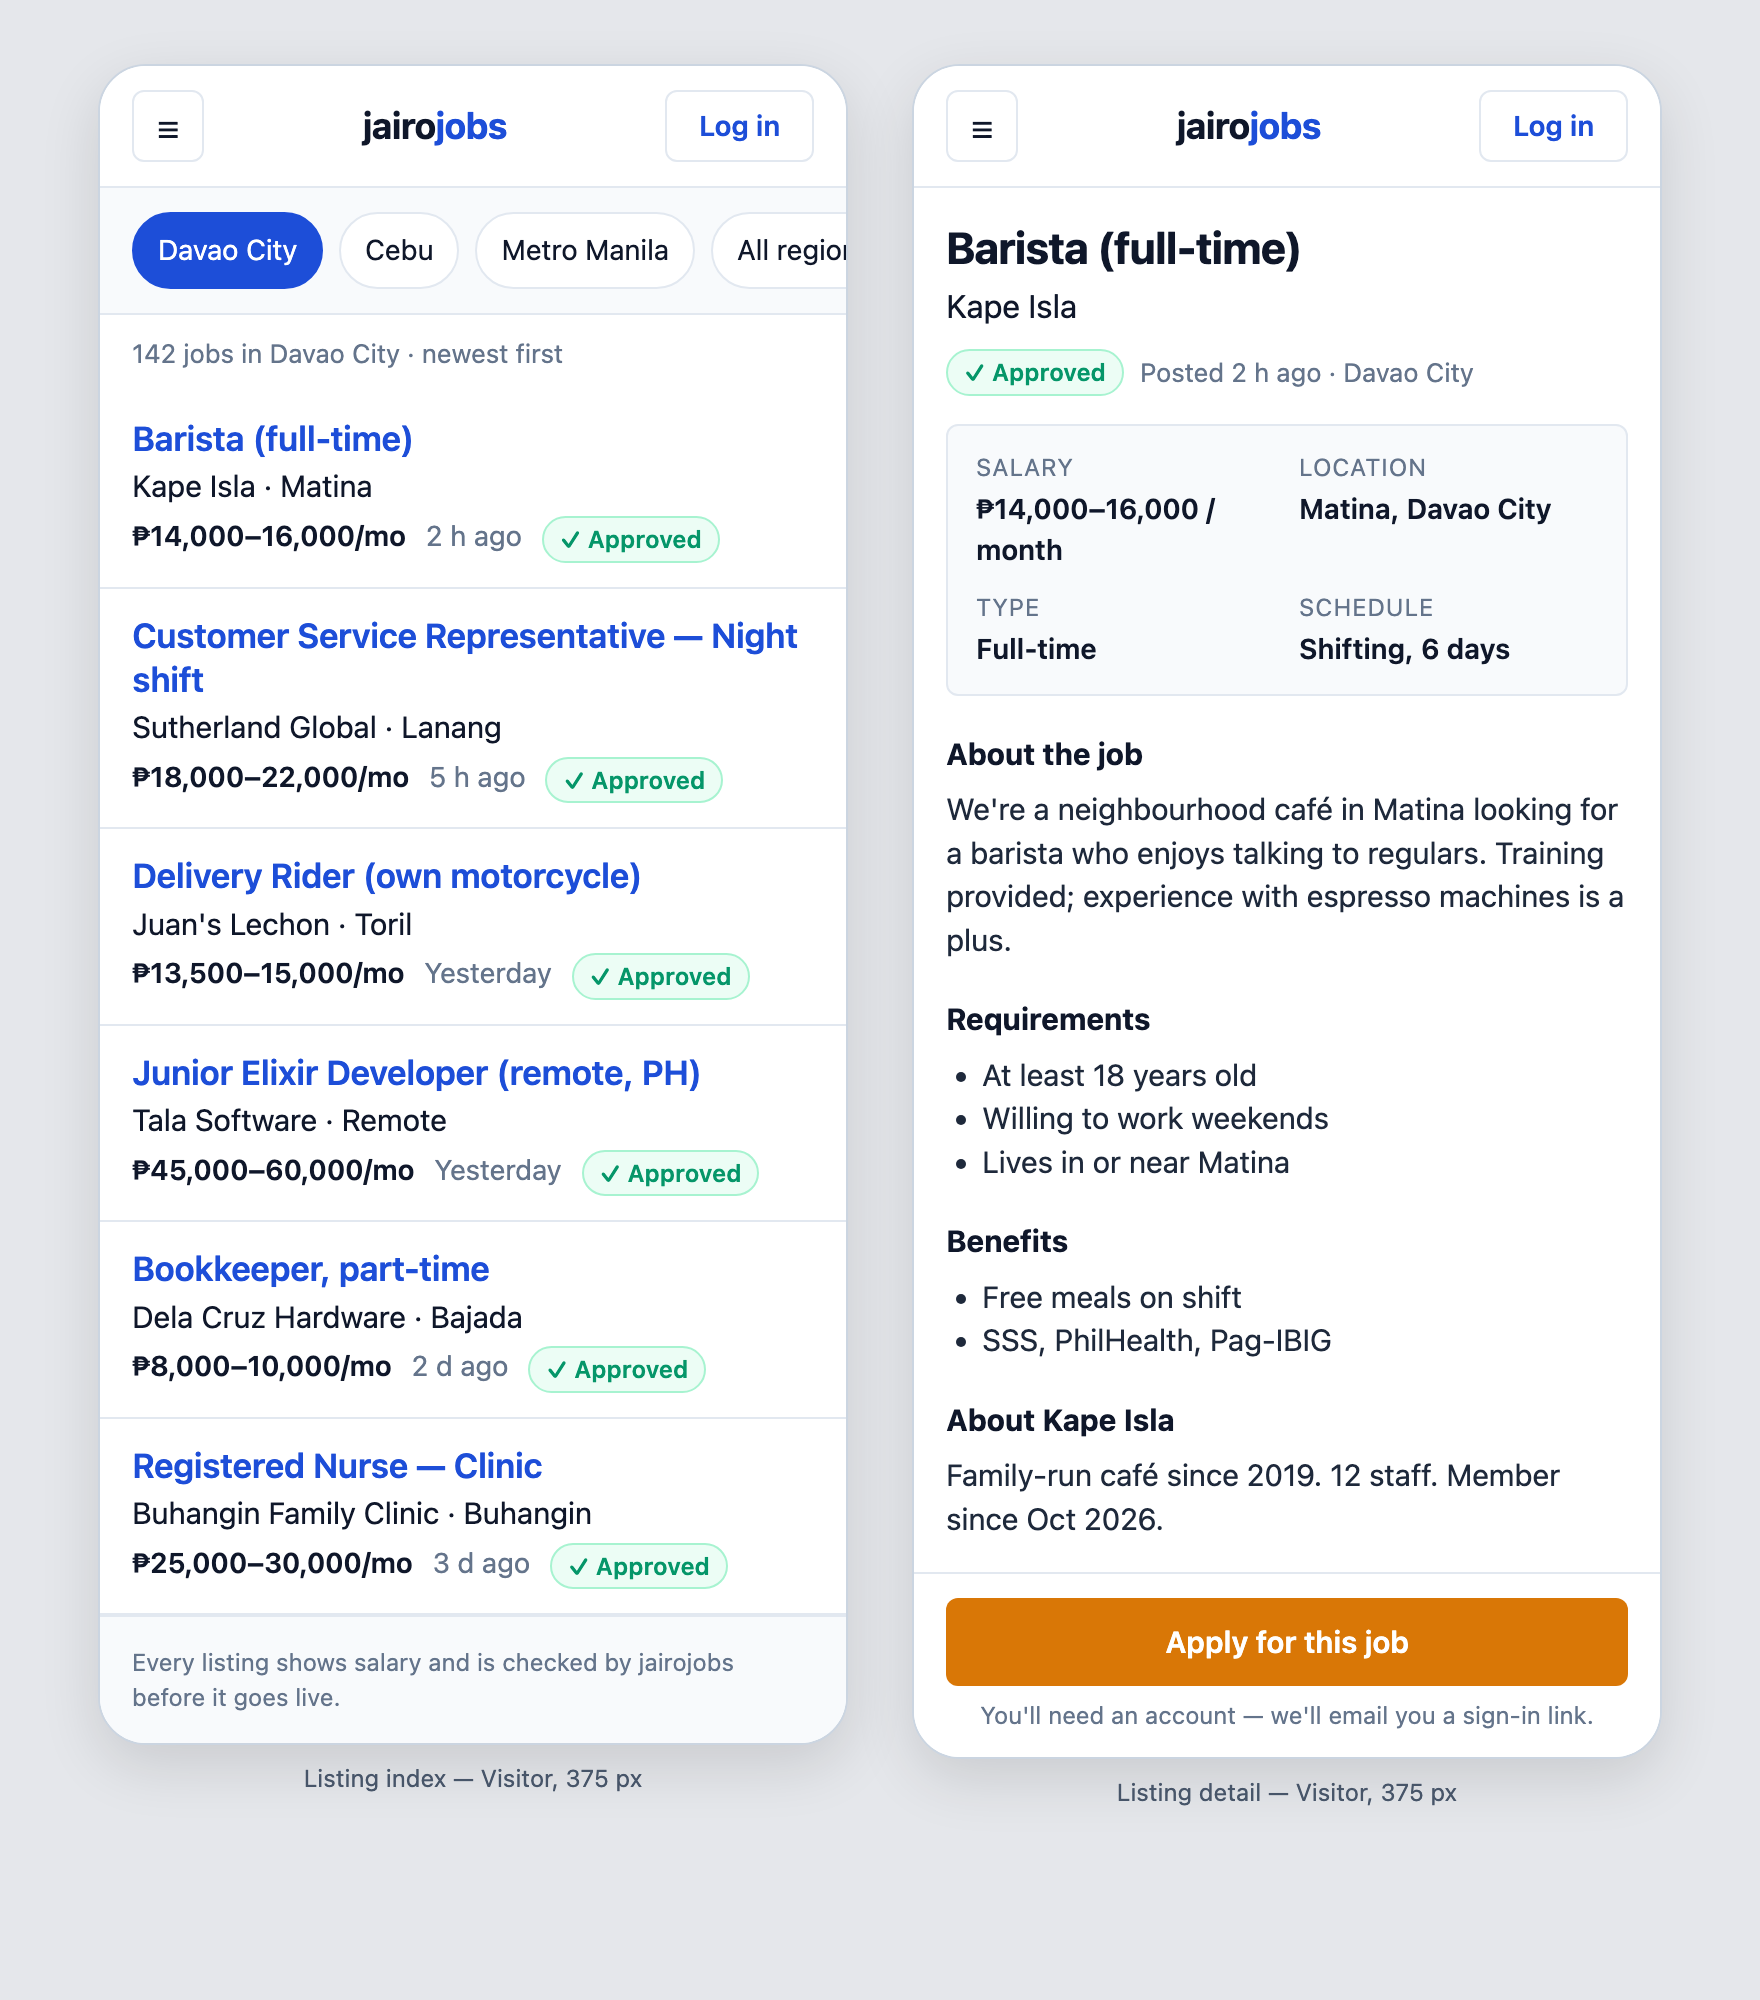
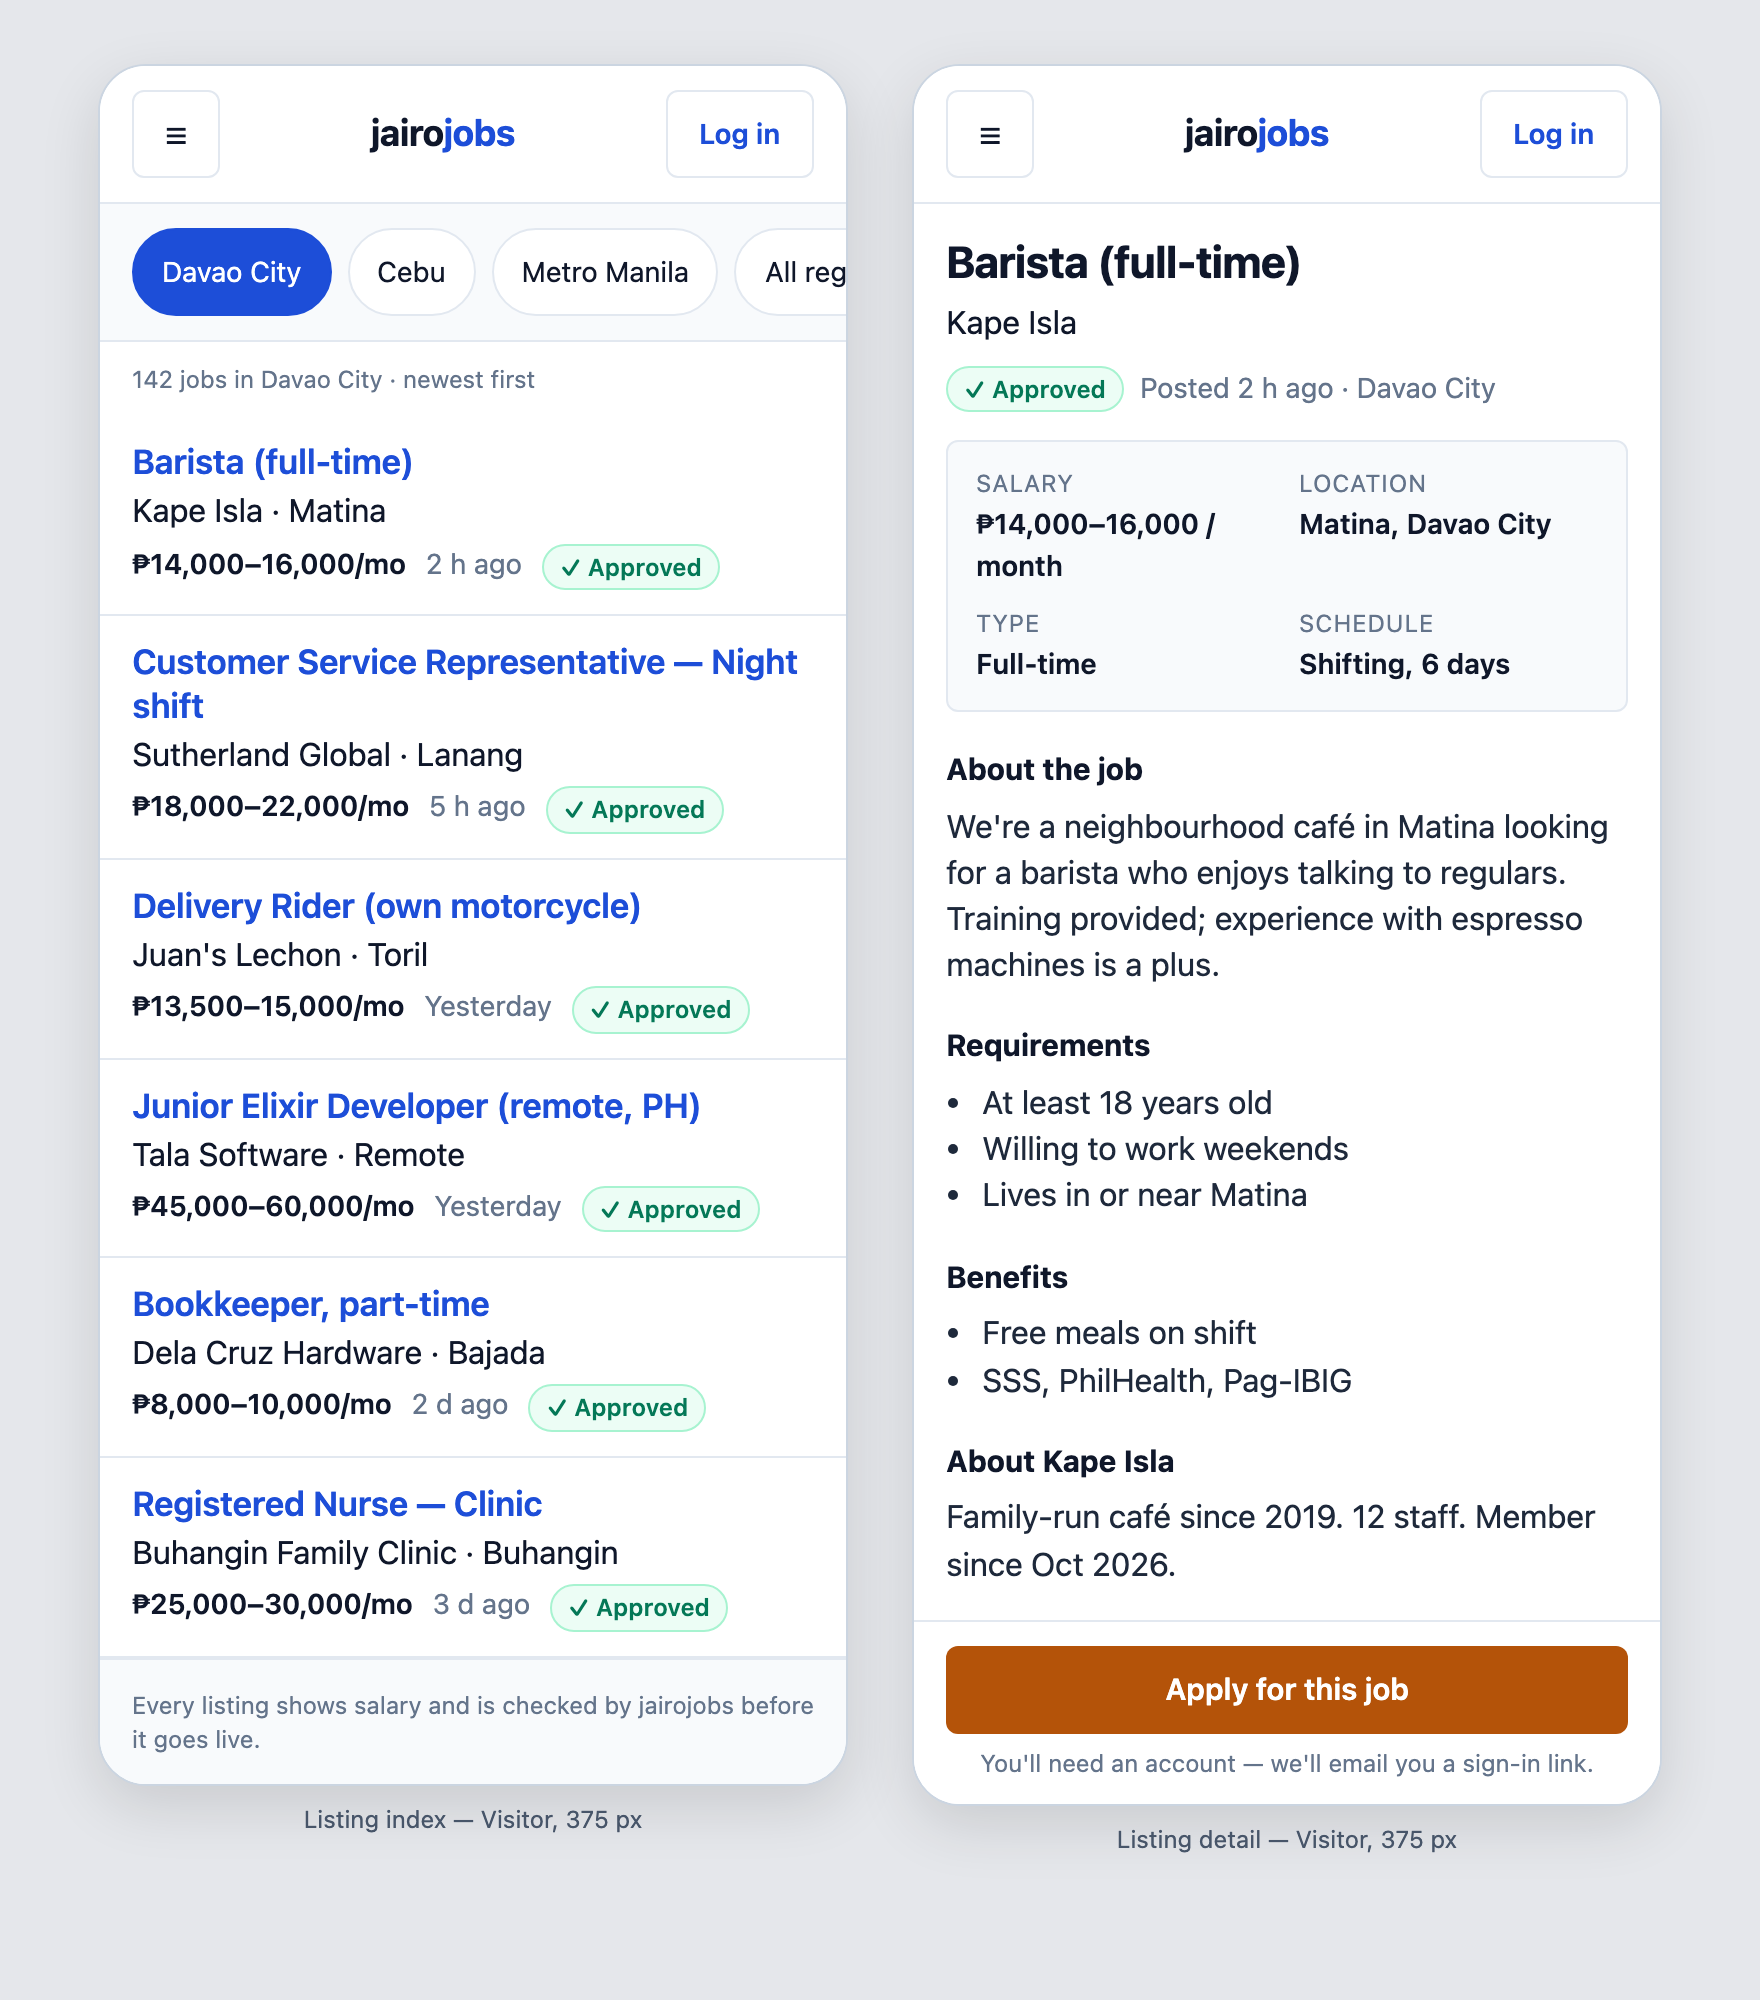
docs(design): resolve seven contradictions in the design guide (44 px for every interactive element, contrast, region, wording); mock redrawn

diff --git a/docs/design/mock-listing-375.html b/docs/design/mock-listing-375.html
@@ -4,7 +4,7 @@
 <style>
   :root{
     --bg:#ffffff;--bg2:#f8fafc;--border:#e2e8f0;--text:#0f172a;--muted:#64748b;
-    --primary:#1d4ed8;--accent:#d97706;--ok:#059669;--r:6px;
+    --primary:#1d4ed8;--accent:#b45309;--ok:#047857;--r:6px;
   }
   *{box-sizing:border-box;margin:0;padding:0}
   body{font-family:ui-sans-serif,system-ui,-apple-system,"Segoe UI",Roboto,"Helvetica Neue",Arial,sans-serif;color:var(--text);background:#e5e7eb;font-size:16px;line-height:1.45}
@@ -15,17 +15,17 @@
   .brand{font-weight:700;font-size:18px;color:var(--text);letter-spacing:-.01em}
   .brand span{color:var(--primary)}
   .btn{display:inline-flex;align-items:center;justify-content:center;min-height:44px;padding:0 16px;border-radius:var(--r);font-weight:600;font-size:15px;text-decoration:none;border:1px solid transparent}
-  .btn-ghost{color:var(--primary);border-color:var(--border);background:var(--bg);min-height:36px;font-size:14px}
+  .btn-ghost{color:var(--primary);border-color:var(--border);background:var(--bg);font-size:14px}
   .btn-accent{background:var(--accent);color:#fff;width:100%}
   .btn-primary{background:var(--primary);color:#fff}
-  .burger{width:36px;height:36px;display:flex;align-items:center;justify-content:center;border:1px solid var(--border);border-radius:var(--r);color:var(--text)}
+  .burger{width:44px;height:44px;display:flex;align-items:center;justify-content:center;border:1px solid var(--border);border-radius:var(--r);color:var(--text)}
   .filters{display:flex;gap:8px;padding:12px 16px;border-bottom:1px solid var(--border);background:var(--bg2);overflow-x:auto}
-  .chip{white-space:nowrap;font-size:14px;padding:8px 12px;border:1px solid var(--border);border-radius:999px;background:#fff;color:var(--text)}
+  .chip{display:inline-flex;align-items:center;min-height:44px;white-space:nowrap;font-size:14px;padding:0 14px;border:1px solid var(--border);border-radius:999px;background:#fff;color:var(--text)}
   .chip.on{background:var(--primary);color:#fff;border-color:var(--primary)}
-  .count{padding:10px 16px;font-size:13px;color:var(--muted)}
+  .count{padding:10px 16px;font-size:12px;color:var(--muted)}
   .row{display:block;padding:12px 16px;border-bottom:1px solid var(--border);text-decoration:none;color:inherit}
   .row h3{font-size:17px;font-weight:600;line-height:1.3;color:var(--primary)}
-  .row .co{font-size:15px;margin-top:2px}
+  .row .co{font-size:16px;margin-top:2px}
   .row .meta{font-size:14px;color:var(--muted);margin-top:4px;display:flex;gap:10px;flex-wrap:wrap}
   .sal{color:var(--text);font-weight:600}
   .badge{display:inline-flex;align-items:center;gap:4px;font-size:12px;font-weight:600;color:var(--ok);background:#ecfdf5;border:1px solid #a7f3d0;border-radius:999px;padding:2px 8px}
@@ -38,11 +38,11 @@
   .facts dt{color:var(--muted);font-size:12px;text-transform:uppercase;letter-spacing:.04em}
   .facts dd{font-weight:600;margin-top:2px}
   .detail h2{font-size:15px;font-weight:700;margin:18px 0 6px;color:var(--text)}
-  .detail p,.detail li{font-size:15px;color:#1e293b}
+  .detail p,.detail li{font-size:16px;color:#1e293b}
   .detail ul{padding-left:18px}
   .cta{position:sticky;bottom:0;background:#fff;border-top:1px solid var(--border);padding:12px 16px}
   .cta small{display:block;text-align:center;font-size:12px;color:var(--muted);margin-top:6px}
-  .trust{display:flex;gap:8px;align-items:center;margin-top:10px;font-size:13px;color:var(--muted)}
+  .trust{display:flex;gap:8px;align-items:center;margin-top:10px;font-size:14px;color:var(--muted)}
   footer{padding:14px 16px;font-size:12px;color:var(--muted);border-top:1px solid var(--border);background:var(--bg2)}
 </style></head><body>
 <div class="phones">

diff --git a/docs/design.md b/docs/design.md
@@ -1,7 +1,7 @@
 # Design Guide
 
 **Status:** Accepted
-**Last updated:** 2026-11-12 (status labels pattern added from spec 003)
+**Last updated:** 2026-11-16 (seven internal contradictions resolved with the owner; see Changelog)
 **Brief:** "A clean, trustworthy, modern craigslist.org."
 
 The single reference for how jairojobs looks and feels. Agents and humans build every screen
@@ -23,9 +23,13 @@ Reference render (375 px, listing index + detail):
 3. **Nothing hidden.** Salary, region, posted date, employer name, and moderation status are
    always visible. No dark patterns, no fake urgency, no "salary negotiable."
 4. **One accent colour, used once per screen** — for the primary action only (Apply, Post a
-   job, Approve). Everything else is neutral or the primary blue.
+   job, Approve). Everything else is neutral or the primary blue, except colours that carry
+   meaning: the status pills and messages (green, amber, red) and destructive buttons (red).
+   Those are states and warnings, not competing calls to action.
 5. **Craigslist density, thumb-friendly.** Compact rows (≈ 6 listings per phone screen) but
-   every interactive element is at least 44 px tall.
+   every interactive element is at least 44 px tall: buttons, fields, rows and standalone
+   links alike. The one exception is a link inside a sentence, which stays the height of
+   its text.
 6. **Plain language.** Microcopy says what will happen ("We'll email you a sign-in link"),
    never jargon ("Authenticate").
 7. **Mobile first, desktop inherits.** Design and test at 375 px; wider screens get more
@@ -37,24 +41,26 @@ Reference render (375 px, listing index + detail):
 |---|---|---|---|
 | Page background | `#ffffff` | `bg-base-100` | pages |
 | Section background | `#f8fafc` | `bg-base-200` / slate-50 | filters bar, fact boxes, footers |
-| Border | `#e2e8f0` | `border-base-300` / slate-200 | row dividers, inputs, cards |
+| Border | `#e2e8f0` | `border-base-300` / slate-200 | row dividers, inputs, boxes (facts box, status box) |
 | Text | `#0f172a` | `text-base-content` / slate-900 | body |
 | Muted text | `#64748b` | slate-500 | meta, hints, timestamps |
 | **Primary** | `#1d4ed8` | `text-primary` / blue-700 | listing titles, links, selected chips, secondary buttons |
-| **Accent (CTA)** | `#d97706` | `btn-accent` / amber-600 | the one primary action per screen |
-| Success | `#059669` | emerald-600 | "✓ Approved" badge, success flash |
-| Warning | `#d97706` | amber-600 | pending states |
+| **Accent (CTA)** | `#b45309` | `btn-accent` / amber-700 | the one primary action per screen |
+| Success | `#047857` | emerald-700 | "✓ Approved" badge, "Live" pill |
+| Warning | `#b45309` | amber-700 | pending states |
 | Error | `#dc2626` | red-600 | validation, destructive |
+| Info | `#2563eb` | blue-600 | confirmation messages (flash) |
 | Font | system stack | default `font-sans` | everything; no web fonts |
 | Base size | 16 px | `text-base` | body |
 | Listing title | 17 px / 600 | `text-[17px] font-semibold` | index rows |
 | Page title | 22 px / 700 | `text-[22px] font-bold` | detail pages |
+| Section heading | 15 px / 700 | `text-[15px] font-bold` | headings inside a listing |
 | Meta | 14 px | `text-sm` | salary, date, region |
-| Fine print | 12–13 px | `text-xs` | hints, footers |
+| Fine print | 12 px | `text-xs` | hints, footers |
 | Radius | 6 px | `rounded-md` | buttons, inputs, boxes |
 | Pill radius | 999 px | `rounded-full` | chips, badges |
 | Row padding | 12 px × 16 px | `py-3 px-4` | list rows |
-| Tap target | ≥ 44 px | `min-h-11` | buttons, rows, links in nav |
+| Tap target | ≥ 44 px | `min-h-11`; fields and buttons get it from the theme (§3) | every interactive element: buttons, fields, rows, standalone links. Not a link inside a sentence |
 | Content width | 720 px | `max-w-[720px] mx-auto` | all pages |
 | Theme | light only | — | dark deferred |
 | Icons | Heroicons outline 20 px | `<.icon name="hero-…" class="size-5"/>` | stock only |
@@ -78,15 +84,15 @@ generated `light` and `dark` theme blocks with this one (dark removed; `prefersd
   --color-primary-content: oklch(100% 0 0);
   --color-secondary: oklch(55.4% 0.046 257.4);  /* slate-500 #64748b */
   --color-secondary-content: oklch(100% 0 0);
-  --color-accent: oklch(66.6% 0.179 58.3);      /* amber-600 #d97706 */
+  --color-accent: oklch(55.5% 0.163 49.0);      /* amber-700 #b45309 */
   --color-accent-content: oklch(100% 0 0);
   --color-neutral: oklch(37.2% 0.044 257.3);    /* slate-700 */
   --color-neutral-content: oklch(100% 0 0);
-  --color-info: oklch(62.3% 0.214 259.8);       /* blue-500 */
+  --color-info: oklch(54.6% 0.245 262.9);       /* blue-600 #2563eb */
   --color-info-content: oklch(100% 0 0);
-  --color-success: oklch(59.6% 0.145 163.2);    /* emerald-600 #059669 */
+  --color-success: oklch(50.8% 0.118 165.6);    /* emerald-700 #047857 */
   --color-success-content: oklch(100% 0 0);
-  --color-warning: oklch(66.6% 0.179 58.3);     /* amber-600 */
+  --color-warning: oklch(55.5% 0.163 49.0);     /* amber-700 */
   --color-warning-content: oklch(100% 0 0);
   --color-error: oklch(57.7% 0.245 27.3);       /* red-600 #dc2626 */
   --color-error-content: oklch(100% 0 0);
@@ -94,20 +100,23 @@ generated `light` and `dark` theme blocks with this one (dark removed; `prefersd
   --radius-field: 0.375rem;
   --radius-box: 0.375rem;
   --size-selector: 0.25rem;
-  --size-field: 0.25rem;
+  --size-field: 0.275rem;   /* × 10 = 2.75rem = 44 px: fields and buttons (principle 5) */
   --border: 1px;
   --depth: 0;
   --noise: 0;
 }
 ```
 
+`--size-field: 0.275rem` makes every field and button 44 px tall by default (daisyUI
+multiplies it by ten), so principle 5 holds without adding a height to each component.
 `--depth: 0` and `--noise: 0` keep surfaces flat (no fake 3D). Use `btn-accent` for the CTA,
 `btn-primary` for secondary actions, `btn-ghost` with border for tertiary (e.g. "Log in").
 
 ## 4. Patterns
 
 ### Listing row (index)
-Title (primary, 17 px semibold) → employer · area (16 px) → salary (bold) · relative date ·
+Title (primary, 17 px semibold) → employer · area (16 px; plus the region when the list
+mixes regions) → salary (bold) · relative date ·
 "✓ Approved" badge (14 px meta line). Whole row is the link. 12 px vertical padding, 1 px
 divider. No thumbnails.
 
@@ -119,7 +128,8 @@ bottom CTA with one line of plain-language hint beneath it.
 ### Trust signals (always)
 - Salary range in PHP on every row and detail page.
 - "✓ Approved" badge on published listings (admin moderation).
-- Posted date (relative under 7 days, absolute after) and region on every row.
+- Posted date (relative under 7 days, absolute after) on every row, and the region: on
+  every row, or once as the list's heading when the whole list is one region.
 - Employer name always shown; no anonymous postings.
 - Footer line on public lists: "Every listing shows salary and is checked by jairojobs before
   it goes live."
@@ -148,7 +158,7 @@ only reinforces it (§6). One component renders them all:
 | Taken down | Taken down | `badge-ghost` (neutral) |
 
 A hidden Region uses the same neutral pill with the word "hidden". The amber pill is a state,
-not an action, so it does not count against "one accent CTA per screen".
+not an action, so it does not count against "one accent CTA per screen" (principle 4).
 
 On a page about one item (e.g. a listing's owner view) the pill sits in a **status box** at the
 top — `bg-base-200`, bordered, 12 px padding: the pill, a short phrase ("— only you can see
@@ -179,7 +189,9 @@ real logo exists; keep it text so it stays crisp and fast.
 
 ## 6. Accessibility
 
-- Contrast ≥ 4.5:1 for text (all tokens above pass on white).
+- Contrast ≥ 4.5:1 for text. Every colour token passes on white, both as text on a white
+  page and as a background under white text (checked 2026-11-16; the lowest is muted text
+  at 4.76).
 - Focus rings visible (daisyUI default `focus-visible` outline in primary).
 - Every interactive element reachable by keyboard; drawer traps focus while open.
 - `aria-label` on icon-only buttons (☰ = "Open menu").
@@ -192,3 +204,11 @@ real logo exists; keep it text so it stays crisp and fast.
 - `AGENTS.md` — the generated line "manually write your own tailwind-based components instead
   of using daisyUI" is overridden by ADR-0001 and this guide: use daisyUI classes from the
   `jairojobs` theme and the stock `core_components.ex`.
+
+## Changelog
+
+Entries before 2026-11-16 are in the commit history.
+
+| Date | Change |
+|---|---|
+| 2026-11-16 | Seven contradictions inside this guide resolved, each chosen by the owner. (1) Tap targets: principle 5 is the rule, every interactive element is at least 44 px, except a link inside a sentence; the tokens row says the same. (2) The theme's `--size-field` is `0.275rem`, so fields and buttons are 44 px by default (was `0.25rem`, 40 px). (3) Contrast: accent and warning are amber-700, success emerald-700, info blue-600 (were amber-600, emerald-600, blue-500, which failed 4.5:1 under white text); Info added to the tokens table. (4) Region is visible for every row, on the row or as the list's heading. (5) Principle 4 names status and destructive colours as exceptions. (6) "cards" → "boxes" in the Border row. (7) A 15 px section-heading token added; fine print is 12 px. Reference mock redrawn to match |
